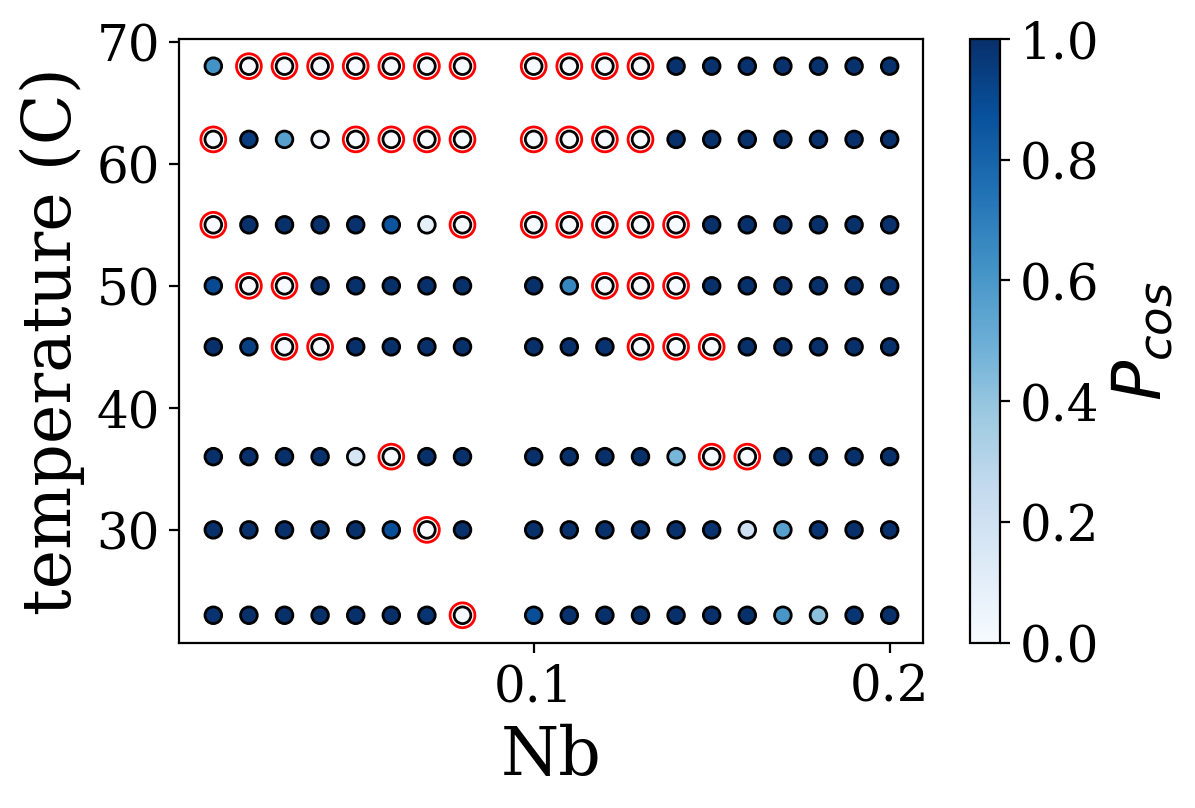
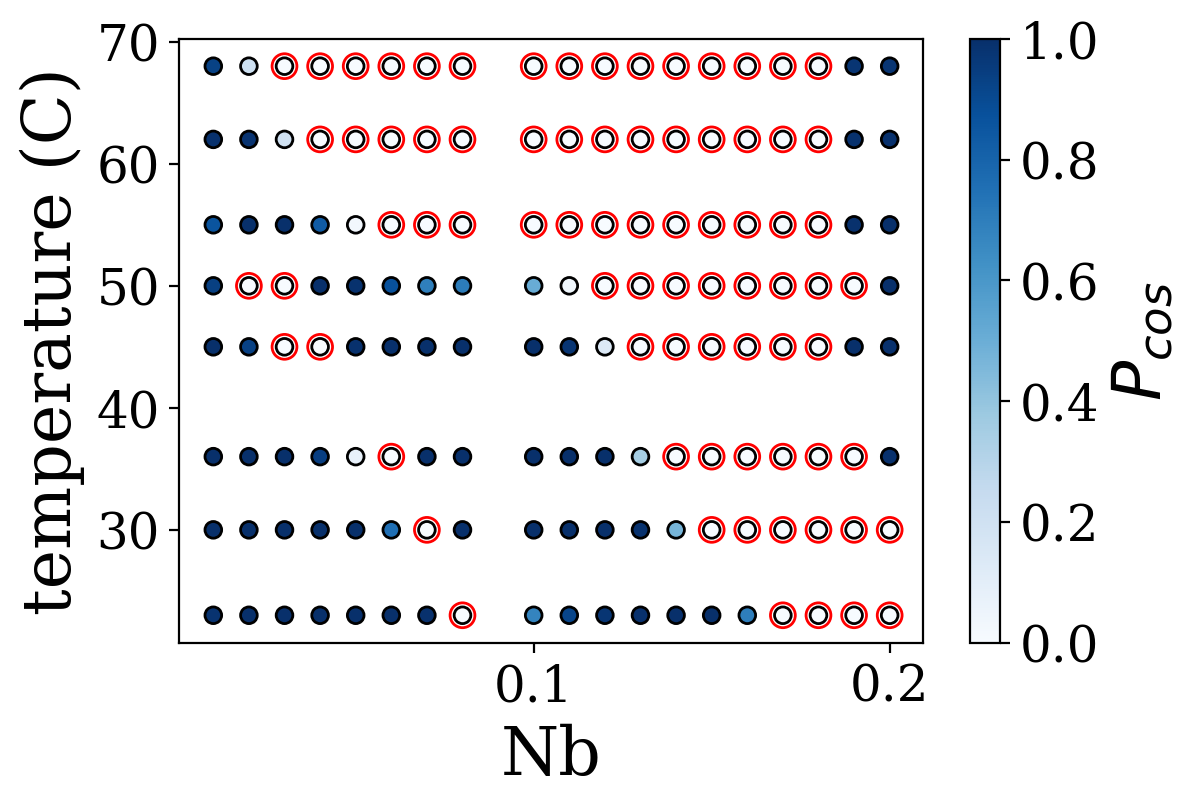
re-run markdown export

diff --git a/VNbO2-comparison.md b/VNbO2-comparison.md
@@ -50,7 +50,7 @@ plt.annotate('a', xy=(0.04, 0.9), xycoords='axes fraction', fontsize=24)
 plt.show()
 ```
 
-![](figures/VNbO2-comparison_figure3_1.png)\
+![](figures/VNbO2-comparison_figure3_1.png){width=400px}\
 
 
 $VO_2$ diffraction data with increasing temperature.
@@ -77,7 +77,7 @@ plt.legend(handles[::-1], labels[::-1])
 plt.show()
 ```
 
-![](figures/VNbO2-comparison_figure4_1.png)\
+![](figures/VNbO2-comparison_figure4_1.png){width=400px}\
 
 
 ## expert phase assignment
@@ -89,7 +89,7 @@ Shannon entropy of 0 indicates unanimity among the experts.
 Increasing entropy values indicate higher levels of disagreement between experts.
 
 
-![](figures/VNbO2-comparison_figure5_1.png)\
+![](figures/VNbO2-comparison_figure5_1.png){width=400px}\
 
 
 Now let's visualize the consensus between expert annotators.
@@ -121,7 +121,7 @@ plt.scatter(annotations['Nb'], annotations['temp'], c=se, cmap='Blues', edgecolo
 plt.show()
 ```
 
-![](figures/VNbO2-comparison_figure6_1.png)\
+![](figures/VNbO2-comparison_figure6_1.png){width=400px}\
 
 
 We can use this consensus model to rank cluster assignments relative to the human annotators.
@@ -130,8 +130,8 @@ We can use this consensus model to rank cluster assignments relative to the huma
 ```python
 from VNbO2.utils import order_labels
 
-# algo_key = 'Brian_spectral_clustering'
-algo_key = 'NREL_kmeans_cluster'
+algo_key = 'Cosine-Local-Scaling-Spectral'
+
 X = algo_labels.loc[:,('Nb', 'temp')].values.astype(np.float64)
 Y = order_labels(algo_labels[algo_key], algo_labels['Nb'])
 
@@ -153,59 +153,10 @@ plt.scatter(algo_labels['Nb'][s], algo_labels['temp'][s], c='none', edgecolors='
 # np.array(Yvar).min()
 plt.xlabel('Nb')
 plt.ylabel('temperature (C)');
-# plt.savefig('VNb-cluster-example.png')
 plt.show()
 ```
 
-```
----------------------------------------------------------------------------KeyError
-Traceback (most recent call last)/usr/local/lib/python3.8/site-
-packages/pandas/core/indexes/base.py in get_loc(self, key, method,
-tolerance)
-   2645             try:
--> 2646                 return self._engine.get_loc(key)
-   2647             except KeyError:
-pandas/_libs/index.pyx in pandas._libs.index.IndexEngine.get_loc()
-pandas/_libs/index.pyx in pandas._libs.index.IndexEngine.get_loc()
-pandas/_libs/hashtable_class_helper.pxi in
-pandas._libs.hashtable.PyObjectHashTable.get_item()
-pandas/_libs/hashtable_class_helper.pxi in
-pandas._libs.hashtable.PyObjectHashTable.get_item()
-KeyError: 'NREL_kmeans_cluster'
-During handling of the above exception, another exception occurred:
-KeyError                                  Traceback (most recent call
-last)<ipython-input-1-ea0608876a1c> in <module>
-      4 algo_key = 'NREL_kmeans_cluster'
-      5 X = algo_labels.loc[:,('Nb',
-'temp')].values.astype(np.float64)
-----> 6 Y = order_labels(algo_labels[algo_key], algo_labels['Nb'])
-      7
-      8 E, error_indicator = gp.variational_log_likelihoods(X, Y, m)
-/usr/local/lib/python3.8/site-packages/pandas/core/frame.py in
-__getitem__(self, key)
-   2798             if self.columns.nlevels > 1:
-   2799                 return self._getitem_multilevel(key)
--> 2800             indexer = self.columns.get_loc(key)
-   2801             if is_integer(indexer):
-   2802                 indexer = [indexer]
-/usr/local/lib/python3.8/site-packages/pandas/core/indexes/base.py in
-get_loc(self, key, method, tolerance)
-   2646                 return self._engine.get_loc(key)
-   2647             except KeyError:
--> 2648                 return
-self._engine.get_loc(self._maybe_cast_indexer(key))
-   2649         indexer = self.get_indexer([key], method=method,
-tolerance=tolerance)
-   2650         if indexer.ndim > 1 or indexer.size > 1:
-pandas/_libs/index.pyx in pandas._libs.index.IndexEngine.get_loc()
-pandas/_libs/index.pyx in pandas._libs.index.IndexEngine.get_loc()
-pandas/_libs/hashtable_class_helper.pxi in
-pandas._libs.hashtable.PyObjectHashTable.get_item()
-pandas/_libs/hashtable_class_helper.pxi in
-pandas._libs.hashtable.PyObjectHashTable.get_item()
-KeyError: 'NREL_kmeans_cluster'
-```
-
+![](figures/VNbO2-comparison_figure7_1.png){width=400px}\
 
 
 Compute log likelihoods for each cluster assigment:
@@ -247,7 +198,7 @@ plt.scatter(X['Nb'], X['T'], c=Y)
 plt.show()
 ```
 
-![](figures/VNbO2-comparison_figure9_1.png)\
+![](figures/VNbO2-comparison_figure9_1.png){width=400px}\
 
 
 
@@ -315,7 +266,7 @@ plt.savefig('figures/cluster_log_relative_likelihoods.png', bbox_inches='tight')
 plt.show()
 ```
 
-![](figures/VNbO2-comparison_figure11_1.png)\
+![](figures/VNbO2-comparison_figure11_1.png){width=400px}\
 
 
 ## Run a case study on composition threshold
@@ -334,7 +285,7 @@ plt.ylabel('T')
 plt.show()
 ```
 
-![](figures/VNbO2-comparison_figure12_1.png)\
+![](figures/VNbO2-comparison_figure12_1.png){width=400px}\
 
 
 
@@ -381,10 +332,10 @@ plt.plot(thresholds, [ll.sum() for ll in logliks])
 ```
 
 ```
-[<matplotlib.lines.Line2D at 0x14b841040>]
+[<matplotlib.lines.Line2D at 0x1475b3160>]
 ```
 
-![](figures/VNbO2-comparison_figure14_1.png)\
+![](figures/VNbO2-comparison_figure14_1.png){width=400px}\
 
 
 
@@ -432,5 +383,5 @@ plt.savefig('figures/spectral_composition_study_rel_lik.png', bbox_inches='tight
 plt.show()
 ```
 
-![](figures/VNbO2-comparison_figure15_1.png)\
+![](figures/VNbO2-comparison_figure15_1.png){width=400px}\
 
